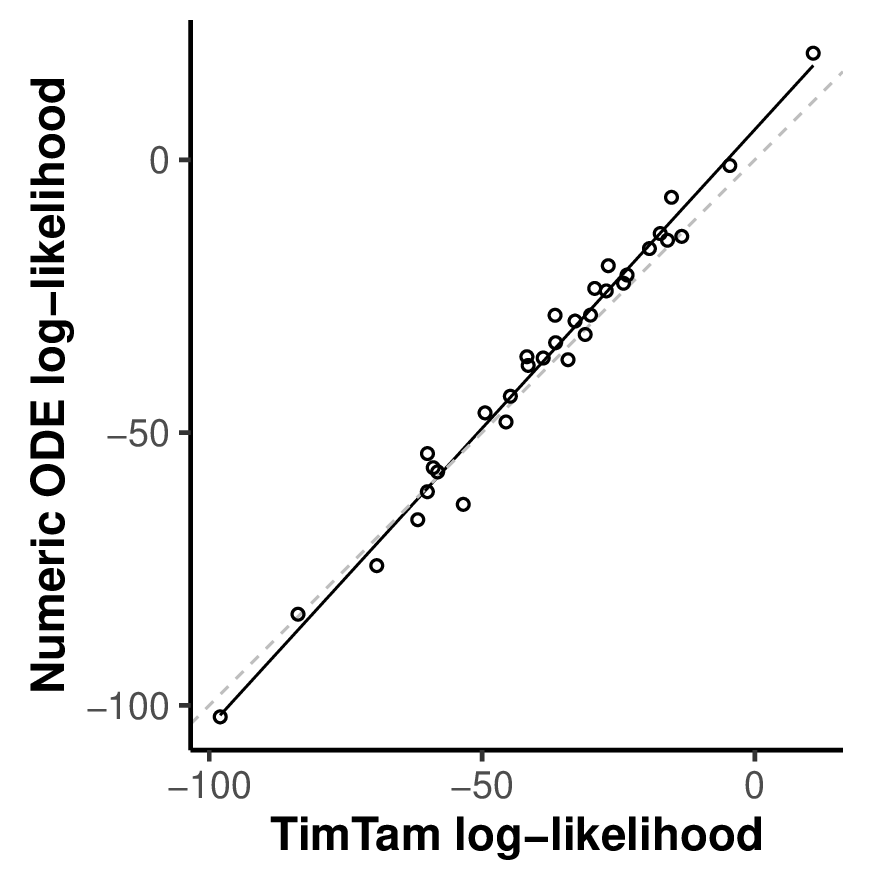
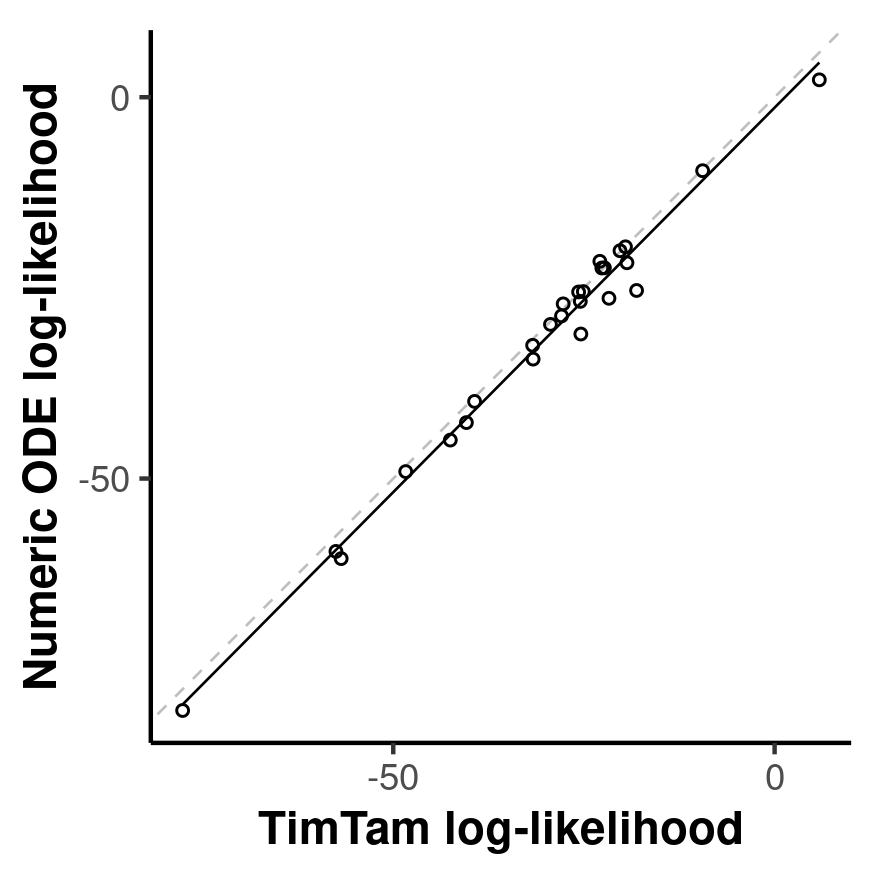
Missing tor (#65)
* doc and bug fix

* update results after running current version of code

* describe changes and version bump

Changed region(s): [[0.0, 0.0306, 0.992, 0.9785], [0.527, 0.5504, 0.558, 0.581]]

diff --git a/ChangeLog.md b/ChangeLog.md
@@ -1,5 +1,10 @@
 # ChangeLog
 
+## 0.1.5
+
+- Fix subtle bug in the way that `popsize-distribution` code was being used and
+  update the results after regenerating them.
+
 ## 0.1.4.0
 
 - When looking for scheduled events at a particular time, search for times less
